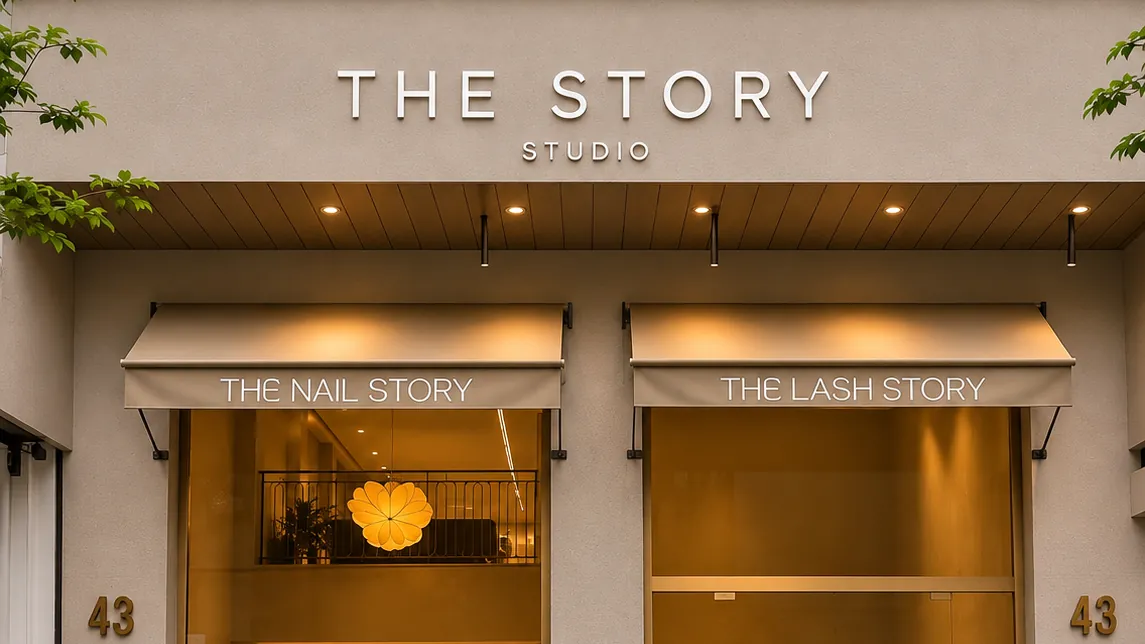
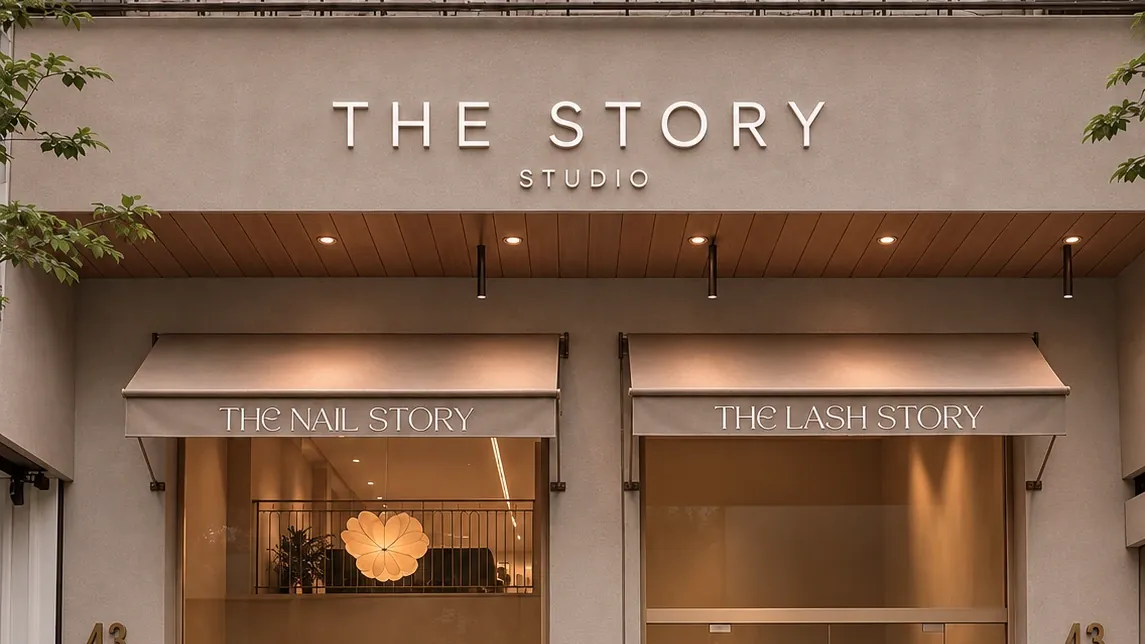
Hero: thay anh mat tien ban moi (Outside-v2)

diff --git a/index.html b/index.html
@@ -18,7 +18,7 @@
   <main>
     <!-- ========== HERO ========== -->
     <section class="hero" aria-label="Giới thiệu">
-      <!-- Anh mat tien 43 Quan Thanh. Goc: assets/space/Outside.png (1145x1373).
+      <!-- Anh mat tien 43 Quan Thanh. Goc: assets/space/Outside-v2.webp (1145x1373).
            Thay anh: chep de public/images/hero/hero-mobile.webp (doc) va hero-desktop.webp (ngang 16:9). -->
       <div class="hero__bg">
         <picture>
